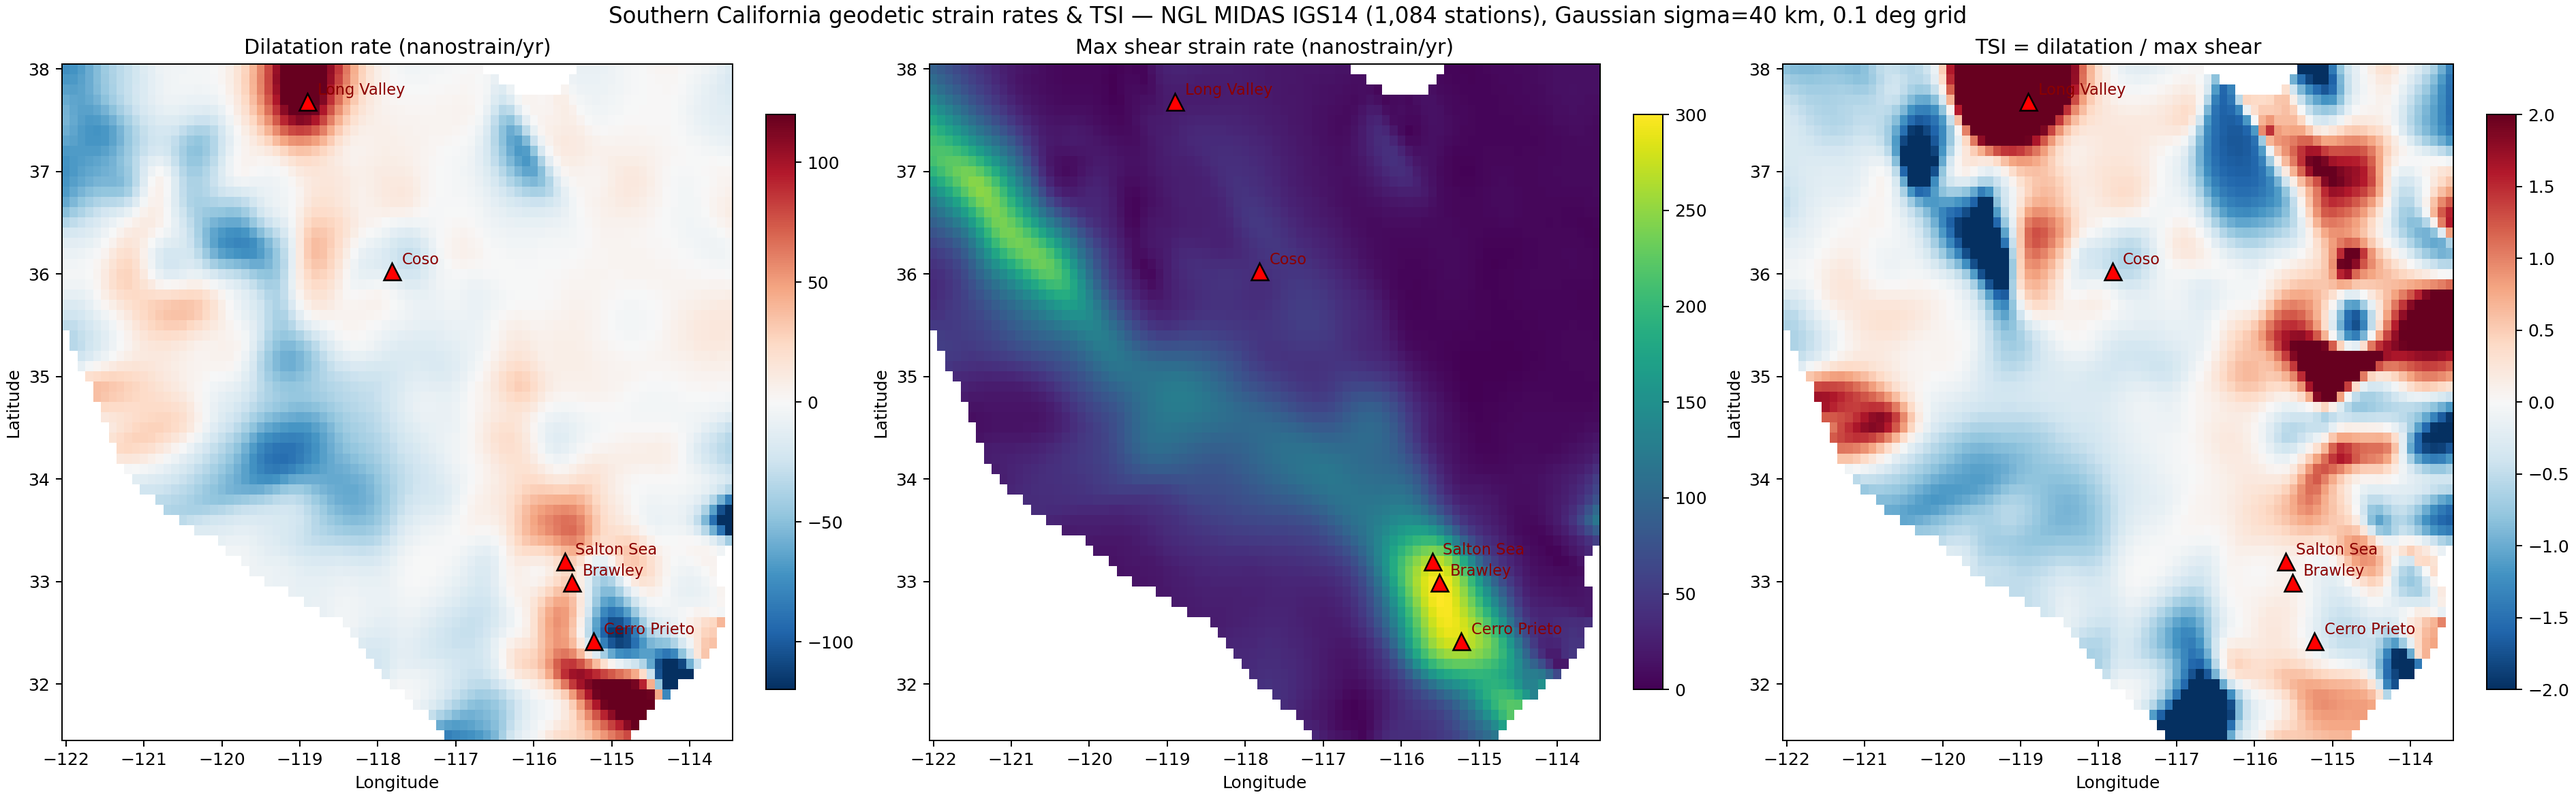
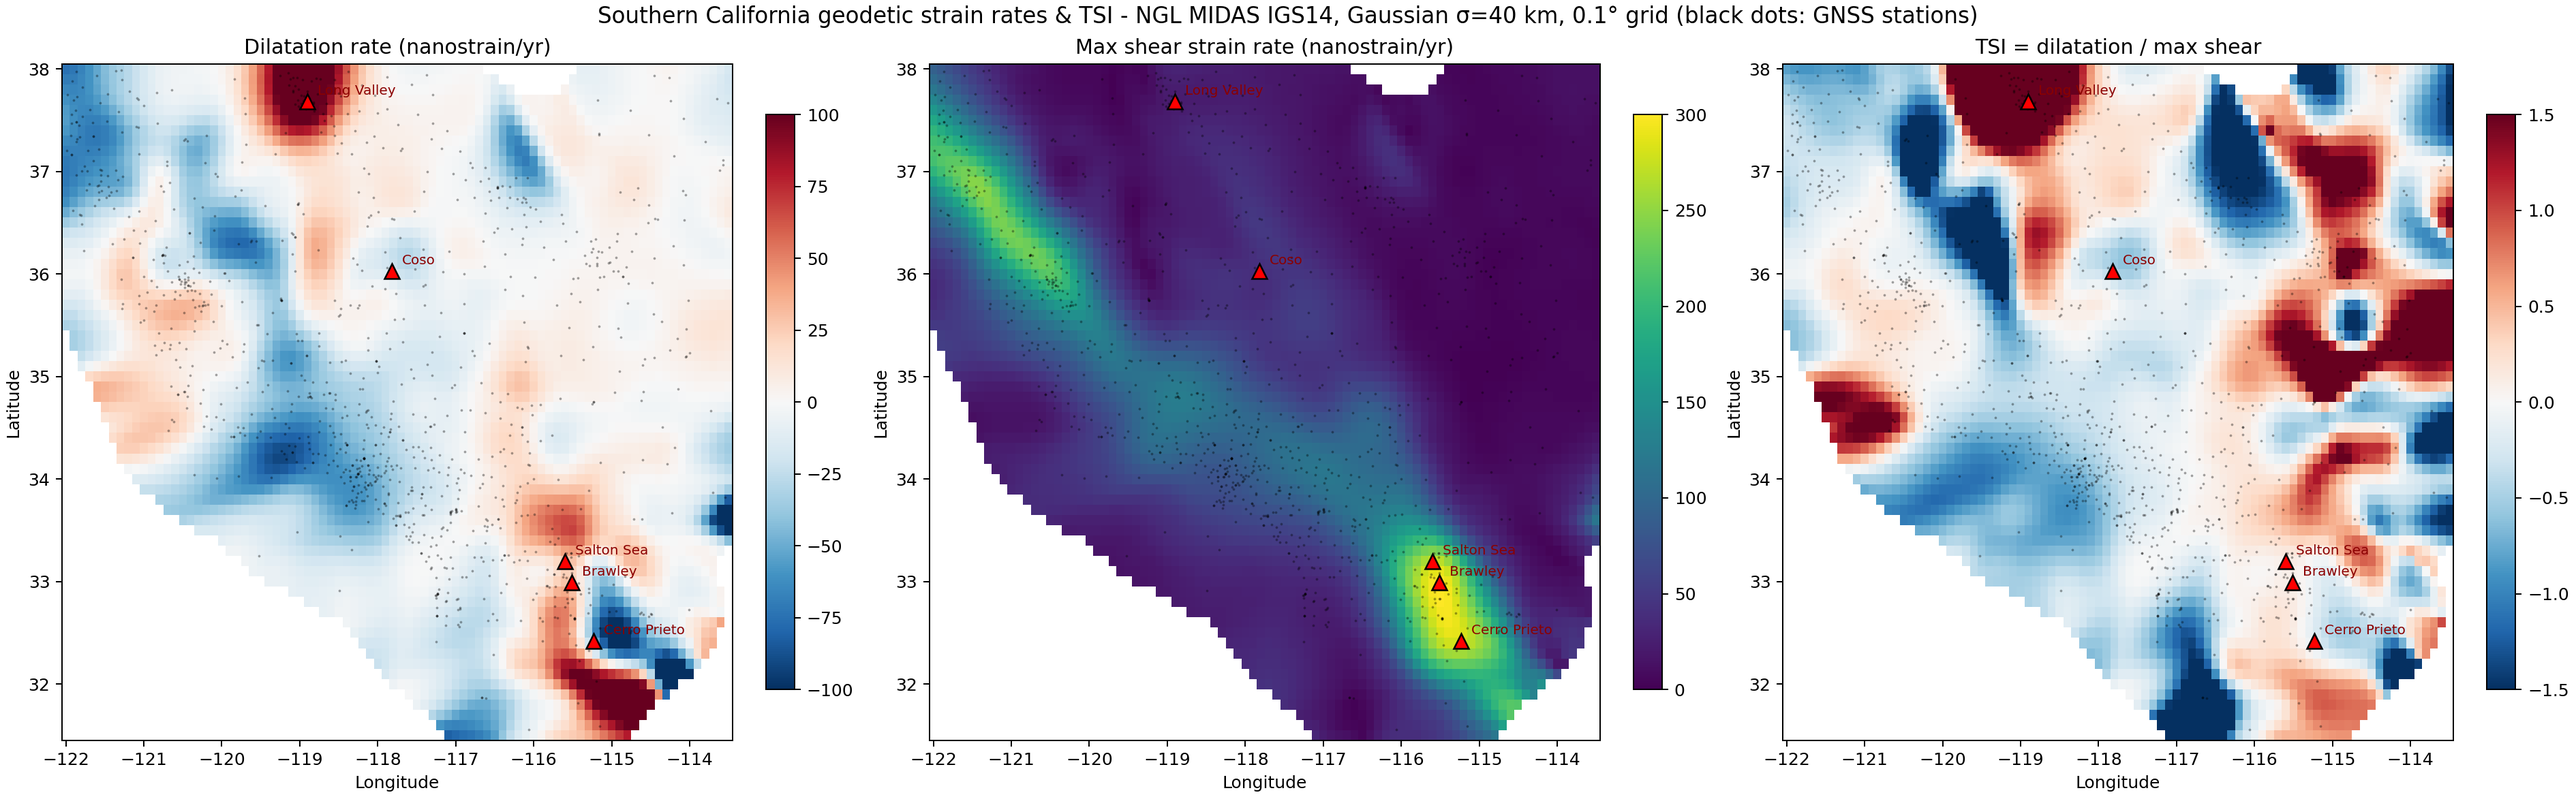
Strain-rate comparison vs Kreemer & Young (2022) velocities; fix strain unit scale
Burgmann's Jul 29 suggestion. K&Y's gridded model is not deposited (Dataverse
doi:10.7910/DVN/BICMWB holds the velocity table only), so the comparison runs
our exact estimator on both velocity sets: NGL MIDAS (1,084 sta) vs the K&Y
compilation (941 sta after QC). Max shear r=0.93, second invariant r=0.93,
dilatation r=0.78 (the component K&Y themselves flag as artifact-prone);
eps_min>=47 nstrain/yr high-strain masks agree at Jaccard 0.83. Site checks:
shear robust (Salton 270 vs 265), dilatation swings (Cerro Prieto sign flip);
TSI signs at Coso (-0.43/-0.21) and Long Valley (+6.3/+2.0) robust.

Also fixes a x1000 unit-label bug introduced in a refactor of tsi_map.py:
gradients were microstrain/yr labeled nanostrain/yr. The originally shared
socal_strain_tsi.png predates the bug and was correct; map + JSON regenerated,
values now true nanostrain/yr (TSI unaffected - unit-free ratio).

diff --git a/strain_comparison.py b/strain_comparison.py
@@ -1,0 +1,165 @@
+"""EQ-20 follow-up - compare our SoCal strain-rate field against the Kreemer & Young (2022)
+velocity compilation (Burgmann's 2026-07-29 suggestion).
+
+Kreemer & Young's gridded MELD/Haines-Holt model is not publicly deposited (their Dataverse
+release doi:10.7910/DVN/BICMWB contains the GPS velocity table only), so the quantitative
+comparison runs our exact estimator (Gaussian-weighted plane fit, sigma=40 km, 0.1 deg grid -
+tsi_map.py) on BOTH velocity sets: NGL MIDAS IGS14 (our original) and the K&Y compilation
+(3,049 stations: NGL + campaign + other networks, already in mm/yr). Identical method on both
+isolates velocity-data sensitivity; spatial-pattern agreement with their published Figure 2 and
+the eps_min >= 47 nanostrain/yr SAF-system contour (their Fig. 8 criterion) checks the
+realization against the paper. Invariants follow their definitions: second invariant
+sqrt(e1^2+e2^2); dilatation e1+e2; eps_min = max(|e1|,|e2|).
+"""
+import json
+import numpy as np
+import pandas as pd
+from pathlib import Path
+import importlib.util
+
+HERE = Path(__file__).parent
+spec = importlib.util.spec_from_file_location("tm", HERE / "tsi_map.py")
+tm = importlib.util.module_from_spec(spec)
+spec.loader.exec_module(tm)
+
+BOX, GRID_STEP, SIGMA_KM, MIN_STA = tm.BOX, tm.GRID_STEP, tm.SIGMA_KM, tm.MIN_STA
+MAX_SU = tm.MAX_SU
+KY_FILE = HERE / "data" / "kreemer_young" / "GPS_table.txt"
+HIGH_STRAIN = 47.0  # nanostrain/yr, Kreemer & Young Fig. 8 contour on eps_min
+
+
+def load_ky():
+    df = pd.read_csv(KY_FILE, sep=r"\s+")
+    df = df.rename(columns={"sdve": "se", "sdvn": "sn"})
+    for c in ["lat", "lon", "ve", "vn", "se", "sn"]:
+        df[c] = pd.to_numeric(df[c], errors="coerce")
+    df = df.dropna(subset=["lat", "lon", "ve", "vn", "se", "sn"]).reset_index(drop=True)
+    assert df.lat.abs().max() <= 90 and df.lon.abs().max() <= 180
+    return df  # ve/vn/se/sn in mm/yr
+
+
+def strain_grid_full(df, ve_mm, vn_mm, se_mm, sn_mm):
+    """tsi_map.strain_grid with the full gradient tensor kept (units mm/yr in, nanostrain/yr out)."""
+    d = df[(df.lat.between(*BOX["lat"])) & (df.lon.between(*BOX["lon"]))
+           & (se_mm < MAX_SU) & (sn_mm < MAX_SU)]
+    ve = ve_mm[d.index].to_numpy()
+    vn = vn_mm[d.index].to_numpy()
+    lat0 = np.mean(BOX["lat"])
+    kx = 111.32 * np.cos(np.radians(lat0))
+    ky = 110.57
+    x = d.lon.to_numpy() * kx
+    y = d.lat.to_numpy() * ky
+    lats = np.arange(BOX["lat"][0], BOX["lat"][1] + 1e-9, GRID_STEP)
+    lons = np.arange(BOX["lon"][0], BOX["lon"][1] + 1e-9, GRID_STEP)
+    exx = np.full((len(lats), len(lons)), np.nan)
+    eyy = np.full_like(exx, np.nan)
+    exy = np.full_like(exx, np.nan)
+    for i, la in enumerate(lats):
+        for j, lo in enumerate(lons):
+            gx, gy = lo * kx, la * ky
+            d2 = (x - gx) ** 2 + (y - gy) ** 2
+            w = np.exp(-d2 / (2 * SIGMA_KM ** 2))
+            sel = w > 0.01
+            if w[sel].sum() < MIN_STA * 0.2 or sel.sum() < MIN_STA:
+                continue
+            X = np.c_[np.ones(sel.sum()), x[sel] - gx, y[sel] - gy]
+            A = X * w[sel][:, None]
+            try:
+                ce, *_ = np.linalg.lstsq(A, ve[sel] * w[sel], rcond=None)
+                cn, *_ = np.linalg.lstsq(A, vn[sel] * w[sel], rcond=None)
+            except np.linalg.LinAlgError:
+                continue
+            # mm/yr per km = 1e-6/yr; ×1000 -> nanostrain/yr
+            exx[i, j] = ce[1] * 1000
+            eyy[i, j] = cn[2] * 1000
+            exy[i, j] = 0.5 * (ce[2] + cn[1]) * 1000
+    return lats, lons, exx, eyy, exy, len(d)
+
+
+def invariants(exx, eyy, exy):
+    mean = (exx + eyy) / 2
+    r = np.sqrt(((exx - eyy) / 2) ** 2 + exy ** 2)
+    e1, e2 = mean + r, mean - r
+    return {
+        "dil": exx + eyy,
+        "max_shear": r,
+        "inv2": np.sqrt(e1 ** 2 + e2 ** 2),
+        "eps_min": np.maximum(np.abs(e1), np.abs(e2)),  # K&Y's eps_min (their naming)
+    }
+
+
+def compare(a, b):
+    ok = ~np.isnan(a) & ~np.isnan(b)
+    from scipy.stats import pearsonr, spearmanr
+    return {
+        "n_nodes": int(ok.sum()),
+        "pearson_r": float(pearsonr(a[ok], b[ok])[0]),
+        "spearman_rho": float(spearmanr(a[ok], b[ok])[0]),
+        "median_abs_diff": float(np.nanmedian(np.abs(a[ok] - b[ok]))),
+        "median_a": float(np.nanmedian(a[ok])),
+        "median_b": float(np.nanmedian(b[ok])),
+    }
+
+
+def main():
+    midas = tm.load_midas()
+    lats, lons, *mid_t, n_mid = strain_grid_full(
+        midas, midas.ve * 1000, midas.vn * 1000, midas.se * 1000, midas.sn * 1000)
+    ky = load_ky()
+    _, _, *ky_t, n_ky = strain_grid_full(ky, ky.ve, ky.vn, ky.se, ky.sn)
+    print(f"stations after QC: MIDAS {n_mid}, K&Y {n_ky}")
+    M, K = invariants(*mid_t), invariants(*ky_t)
+
+    out = {"stations": {"midas": n_mid, "kreemer_young": n_ky},
+           "fields": {k: compare(M[k], K[k]) for k in M}}
+
+    # K&Y Fig. 8-style high-strain mask agreement (eps_min >= 47 nanostrain/yr)
+    a = M["eps_min"] >= HIGH_STRAIN
+    b = K["eps_min"] >= HIGH_STRAIN
+    ok = ~np.isnan(M["eps_min"]) & ~np.isnan(K["eps_min"])
+    inter, union = (a & b & ok).sum(), ((a | b) & ok).sum()
+    out["high_strain_mask_47"] = {"midas_frac": float(a[ok].mean()), "ky_frac": float(b[ok].mean()),
+                                  "jaccard": float(inter / union) if union else None}
+
+    # site benchmarks
+    sites = {}
+    for name, (gla, glo) in tm.GEOTHERMAL.items():
+        i = int(round((gla - lats[0]) / GRID_STEP))
+        j = int(round((glo - lons[0]) / GRID_STEP))
+        if 0 <= i < len(lats) and 0 <= j < len(lons):
+            sites[name] = {src: {k: (None if np.isnan(F[k][i, j]) else round(float(F[k][i, j]), 2))
+                                 for k in ("dil", "max_shear")}
+                           for src, F in [("midas", M), ("ky", K)]}
+    out["sites"] = sites
+
+    (HERE / "results_strain_comparison.json").write_text(json.dumps(out, indent=2), encoding="utf-8")
+    print(json.dumps(out["fields"], indent=2))
+    print(json.dumps(out["high_strain_mask_47"], indent=2))
+
+    import matplotlib
+    matplotlib.use("Agg")
+    import matplotlib.pyplot as plt
+    rows = [("Max shear (nanostrain/yr)", "max_shear", "viridis", (0, 300)),
+            ("Dilatation (nanostrain/yr)", "dil", "RdBu_r", (-100, 100))]
+    fig, axes = plt.subplots(2, 3, figsize=(21, 12), constrained_layout=True)
+    for r, (title, key, cmap, clim) in enumerate(rows):
+        diff = M[key] - K[key]
+        panels = [(f"NGL MIDAS - {title}", M[key], cmap, clim),
+                  (f"Kreemer & Young velocities - {title}", K[key], cmap, clim),
+                  ("MIDAS minus K&Y", diff, "RdBu_r", (-50, 50))]
+        for c, (t, z, cm, cl) in enumerate(panels):
+            ax = axes[r, c]
+            im = ax.pcolormesh(lons, lats, z, cmap=cm, vmin=cl[0], vmax=cl[1], shading="auto")
+            for name, (gla, glo) in tm.GEOTHERMAL.items():
+                if BOX["lat"][0] <= gla <= BOX["lat"][1] and BOX["lon"][0] <= glo <= BOX["lon"][1]:
+                    ax.plot(glo, gla, "r^", ms=8, mec="k")
+            ax.set_title(t, fontsize=11)
+            fig.colorbar(im, ax=ax, shrink=0.8)
+    fig.suptitle("Same estimator (Gaussian sigma=40 km plane fit, 0.1 deg), two velocity sets - "
+                 "our NGL MIDAS field vs the Kreemer & Young (2022) compilation", fontsize=13)
+    fig.savefig(tm.OUT / "strain_comparison_kreemer_young.png", dpi=160)
+    print("-> maps/strain_comparison_kreemer_young.png; results_strain_comparison.json")
+
+
+if __name__ == "__main__":
+    main()

diff --git a/tsi_map.py b/tsi_map.py
@@ -80,8 +80,9 @@ def strain_grid(df):
                 cn, *_ = np.linalg.lstsq(A, vn[sel] * W, rcond=None)
             except np.linalg.LinAlgError:
                 continue
-            dvedx, dvedy = ce[1], ce[2]   # mm/yr per km = nanostrain/yr
-            dvndx, dvndy = cn[1], cn[2]
+            # mm/yr per km = 1e-6/yr; ×1000 -> nanostrain/yr
+            dvedx, dvedy = ce[1] * 1000, ce[2] * 1000
+            dvndx, dvndy = cn[1] * 1000, cn[2] * 1000
             exx = dvedx                    # x = east
             eyy = dvndy
             exy = 0.5 * (dvedy + dvndx)
